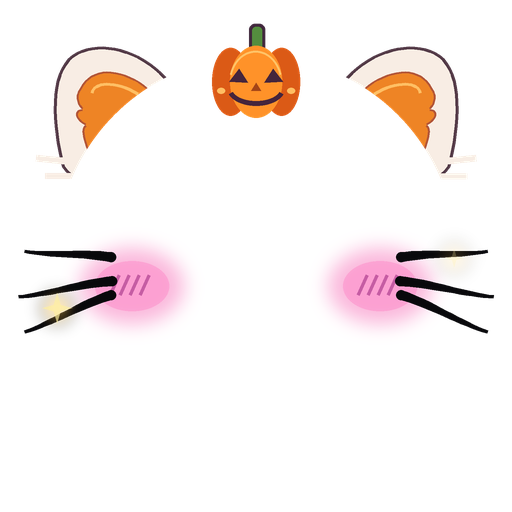
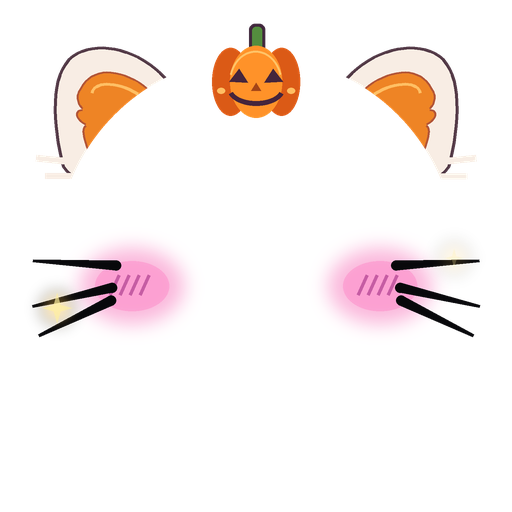
fix : 참고 영상에 맞춰 고양이 수염 전체 움직임 보정

Changed region(s): [[0.75, 0.4688, 0.9688, 0.6562], [0.0312, 0.4688, 0.25, 0.6562]]

diff --git a/scripts/generate-halloween-cat-frame.py b/scripts/generate-halloween-cat-frame.py
@@ -117,37 +117,49 @@ def draw_ear(layer: Image.Image, angle: float, right: bool) -> None:
 
 def draw_whiskers(layer: Image.Image, progress: float) -> None:
     draw = ImageDraw.Draw(layer)
-    wave = math.sin(2 * math.pi * progress)
-    fan = math.cos(2 * math.pi * progress)
-    left_lines = (
-        ((111, 258), (28, 252 - 11 * wave - 7 * fan), -6),
-        ((112, 282), (22, 300 + 7 * wave), 0),
-        ((111, 296), (28, 331 + 11 * wave + 7 * fan), 6),
+    # The reference lifts each entire whisker, then briefly dips it below rest.
+    # Its tips travel farther than its roots, and the top whisker pulls inward.
+    poses = (
+        (0.00, 0.00),
+        (0.10, 0.52),
+        (0.34, 0.52),
+        (0.56, 1.00),
+        (0.66, 0.88),
+        (0.78, 0.42),
+        (0.89, -0.45),
+        (1.00, 0.00),
     )
-    for start, end, curve in left_lines:
-        root = (start[0], start[1] + 2 * wave)
-        tip = (end[0] - 4 * fan, end[1])
-        centerline = cubic(
-            root,
-            (root[0] - 27, root[1] + curve - 3 * wave),
-            (tip[0] + 25, tip[1] - curve + 3 * wave),
-            tip,
-        )
+    lift = 0.0
+    for (start_time, start_lift), (end_time, end_lift) in zip(poses, poses[1:]):
+        if progress <= end_time:
+            blend = smoothstep((progress - start_time) / (end_time - start_time))
+            lift = start_lift + (end_lift - start_lift) * blend
+            break
+
+    left_lines = (
+        ((116, 258), (42, 250), -20, -29, 25),
+        ((112, 282), (35, 292), -15, -39, 7),
+        ((111, 296), (36, 320), -12, -43, -7),
+    )
+    for start, end, root_rise, tip_rise, tip_pull in left_lines:
+        root = (start[0], start[1] + root_rise * lift)
+        tip = (end[0] + tip_pull * lift, end[1] + tip_rise * lift)
         for right in (False, True):
-            points = mirror(centerline) if right else centerline
-            upper = []
-            lower = []
-            for index, point in enumerate(points):
-                previous = points[max(0, index - 1)]
-                following = points[min(len(points) - 1, index + 1)]
-                dx, dy = following[0] - previous[0], following[1] - previous[1]
-                length = math.hypot(dx, dy)
-                normal_x, normal_y = -dy / length, dx / length
-                width = 5 - 3.5 * index / (len(points) - 1)
-                upper.append((point[0] + width * normal_x, point[1] + width * normal_y))
-                lower.append((point[0] - width * normal_x, point[1] - width * normal_y))
-            draw.polygon(scale_points(upper + list(reversed(lower))), fill="#08080B")
-            whisker_root = points[0]
+            whisker_root, whisker_tip = mirror([root, tip]) if right else (root, tip)
+            dx, dy = whisker_tip[0] - whisker_root[0], whisker_tip[1] - whisker_root[1]
+            length = math.hypot(dx, dy)
+            normal_x, normal_y = -dy / length, dx / length
+            draw.polygon(
+                scale_points(
+                    [
+                        (whisker_root[0] + 5 * normal_x, whisker_root[1] + 5 * normal_y),
+                        (whisker_tip[0] + 1.5 * normal_x, whisker_tip[1] + 1.5 * normal_y),
+                        (whisker_tip[0] - 1.5 * normal_x, whisker_tip[1] - 1.5 * normal_y),
+                        (whisker_root[0] - 5 * normal_x, whisker_root[1] - 5 * normal_y),
+                    ]
+                ),
+                fill="#08080B",
+            )
             draw.ellipse(
                 (
                     round((whisker_root[0] - 5) * DRAW_SCALE),
